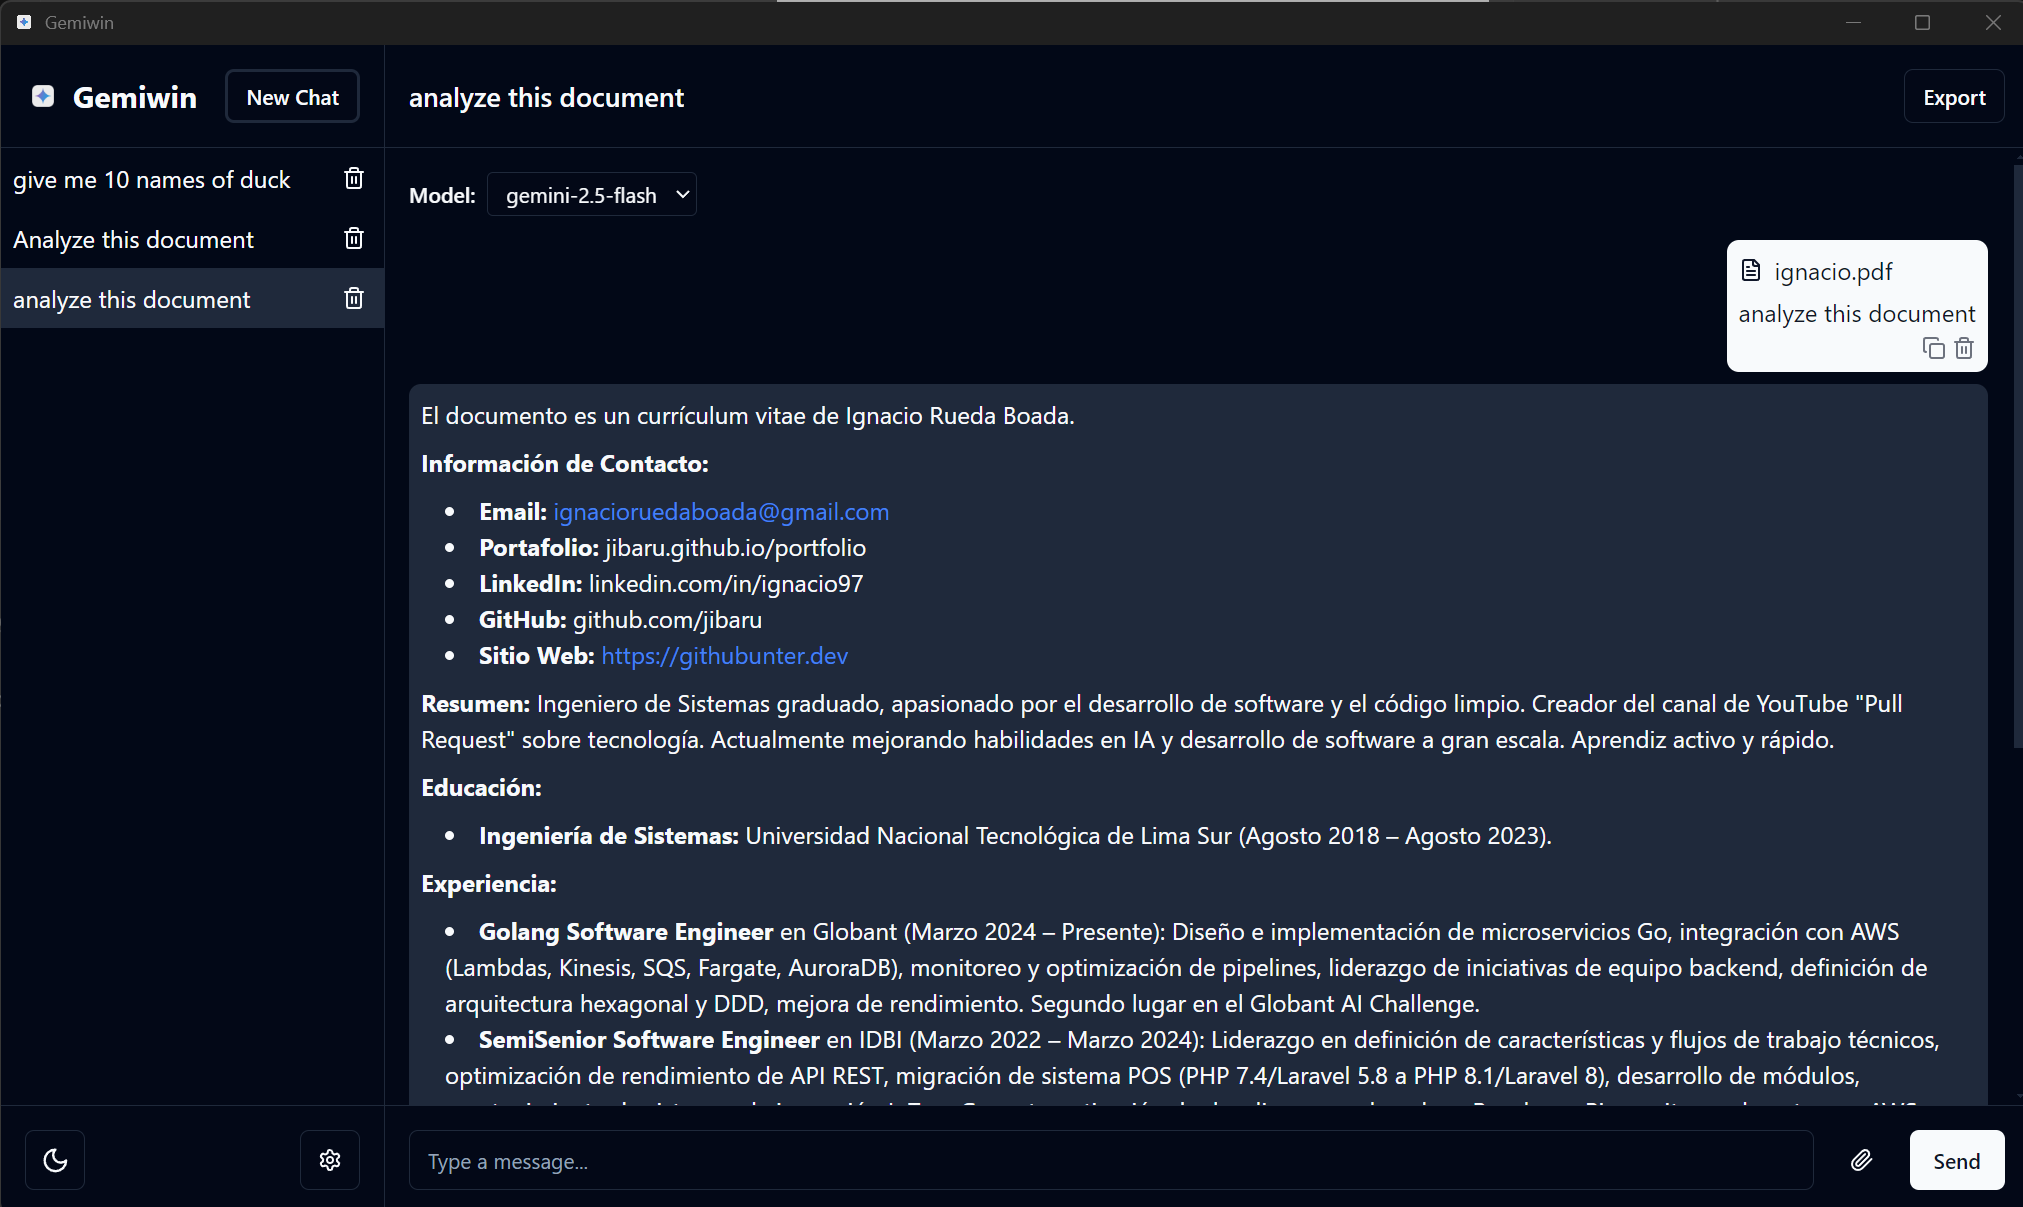
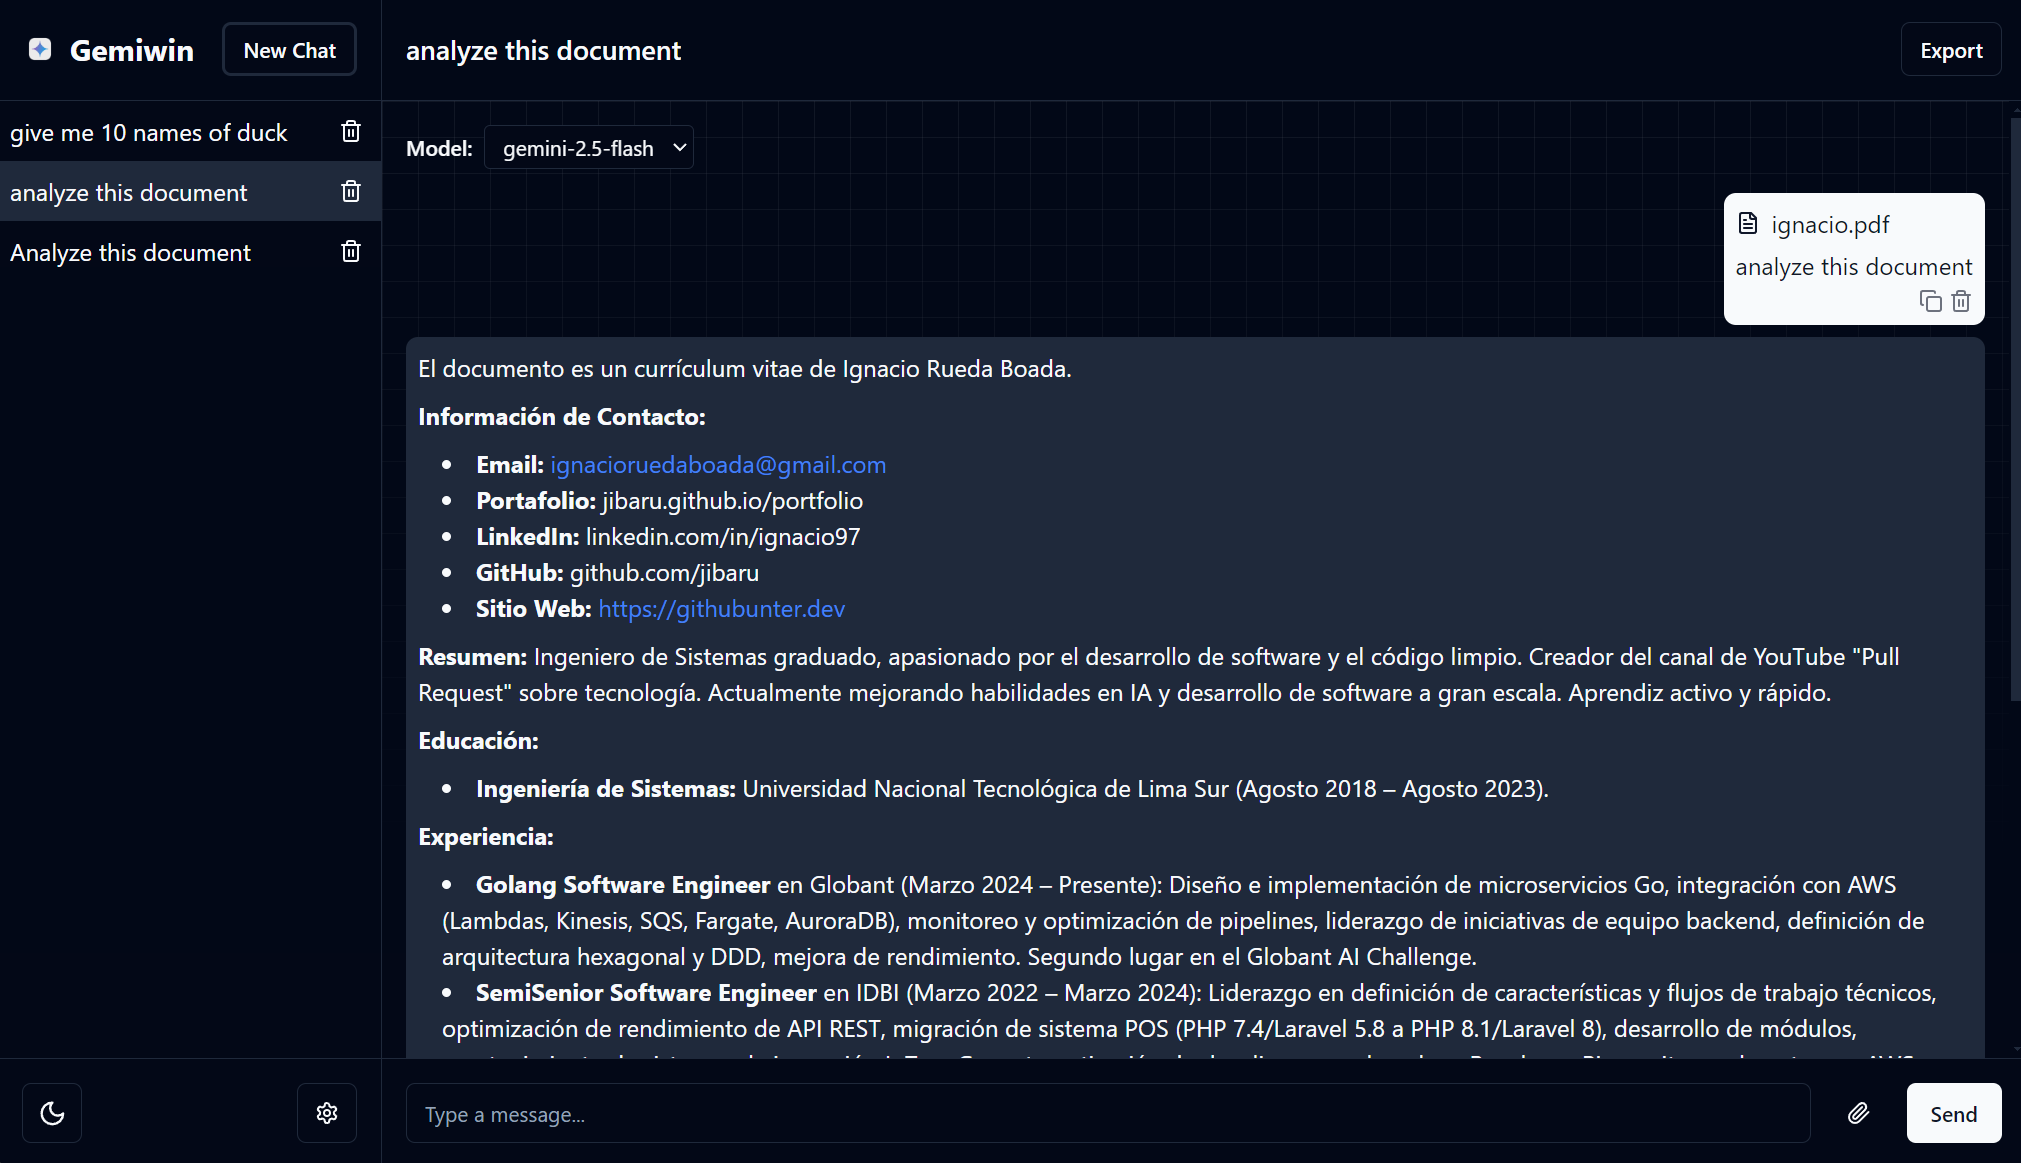
feat: update chat and splash screen

diff --git a/ui/src/components/splash-screen.tsx b/ui/src/components/splash-screen.tsx
@@ -1,5 +1,4 @@
 import React from 'react';
-import icon from '../../icon.png';
 
 interface SplashScreenProps {
   onContinue: () => void;
@@ -29,8 +28,33 @@ export const SplashScreen: React.FC<SplashScreenProps> = ({ onContinue }) => {
           <div className="absolute inset-0 h-40 w-40 rounded-2xl bg-gray-200 translate-y-3 group-active:translate-y-1 transition-transform" />
 
           {/* Keycap */}
-          <div className="relative h-40 w-40 rounded-2xl bg-white shadow-md flex items-center justify-center select-none group-active:translate-y-1 transition-transform">
-            <img src={icon} alt="logo" className="h-20 w-20" />
+          <div className="relative h-40 w-40 rounded-2xl overflow-hidden shadow-md select-none group-active:translate-y-1 transition-transform">
+            {/* Star symbol fills the entire button */}
+            <svg
+              xmlns="http://www.w3.org/2000/svg"
+              viewBox="0 0 16 16"
+              fill="none"
+              className="absolute inset-0 w-full h-full transform scale-[0.60]"
+            >
+              <path
+                d="M16 8.016A8.522 8.522 0 008.016 16h-.032A8.521 8.521 0 000 8.016v-.032A8.521 8.521 0 007.984 0h.032A8.522 8.522 0 0016 7.984v.032z"
+                fill="url(#starGradient)"
+              />
+              <defs>
+                <radialGradient
+                  id="starGradient"
+                  cx="0"
+                  cy="0"
+                  r="1"
+                  gradientUnits="userSpaceOnUse"
+                  gradientTransform="matrix(16.1326 5.4553 -43.70045 129.2322 1.588 6.503)"
+                >
+                  <stop offset="0.067" stopColor="#9168C0" />
+                  <stop offset="0.343" stopColor="#5684D1" />
+                  <stop offset="0.672" stopColor="#1BA1E3" />
+                </radialGradient>
+              </defs>
+            </svg>
           </div>
         </div>
       </div>

diff --git a/ui/src/components/chat-messages.tsx b/ui/src/components/chat-messages.tsx
@@ -60,7 +60,10 @@ export const ChatMessages: React.FC<ChatMessagesProps> = ({ messages, isLoading,
   };
 
   return (
-    <div id="chat-container" className="flex-1 p-4 overflow-y-auto">
+    <div id="chat-container" className="relative flex-1 overflow-y-auto">
+      {/* Fading grid background behind messages only */}
+      <div className="pointer-events-none absolute inset-0 grid-pattern"></div>
+      <div className="relative p-4">
       {/* Model selector */}
       <div className="mb-4">
         <label htmlFor="model-select" className="mr-2 text-sm font-medium">Model:</label>
@@ -144,6 +147,7 @@ export const ChatMessages: React.FC<ChatMessagesProps> = ({ messages, isLoading,
           )}
         </div>
       )}
+      </div>
     </div>
   );
 }; 

diff --git a/ui/src/css/globals.css b/ui/src/css/globals.css
@@ -162,4 +162,19 @@
       @apply bg-gray-200 dark:bg-gray-700 p-2 rounded overflow-x-auto;
     }
   }
+}
+
+@layer utilities {
+  .grid-pattern {
+    /* two perpendicular gradients form the grid, color adapts per theme */
+    background-image:
+      linear-gradient(to bottom, hsl(var(--foreground) / 0.06) 1px, transparent 1px),
+      linear-gradient(to right,  hsl(var(--foreground) / 0.06) 1px, transparent 1px);
+    background-size: 24px 24px;
+
+    /* fade out the pattern as we go down */
+    mask-image: linear-gradient(to bottom, rgba(0,0,0,1) 0%, rgba(0,0,0,0) 80%);
+    -webkit-mask-image: linear-gradient(to bottom, rgba(0,0,0,1) 0%, rgba(0,0,0,0) 80%);
+    pointer-events: none;
+  }
 } 

diff --git a/ui/src/components/layout.tsx b/ui/src/components/layout.tsx
@@ -305,7 +305,8 @@ export const Layout: React.FC = () => {
   };
 
   return (
-    <div className="flex h-screen bg-background text-foreground">
+    <div className="relative flex h-screen bg-background text-foreground">
+      {/* Fading grid background */}
       <ChatSidebar
         chats={chats}
         currentChat={currentChat}
